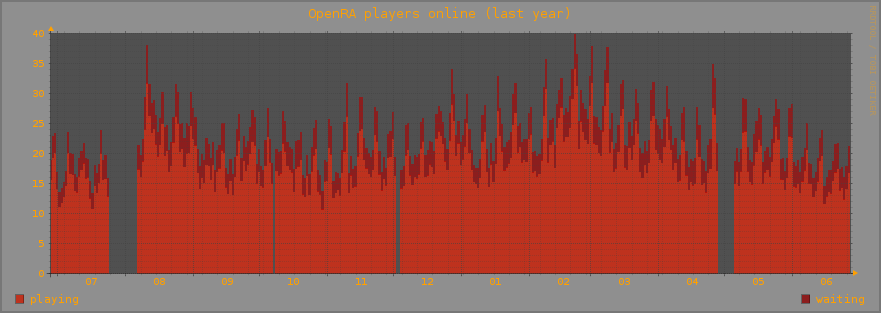
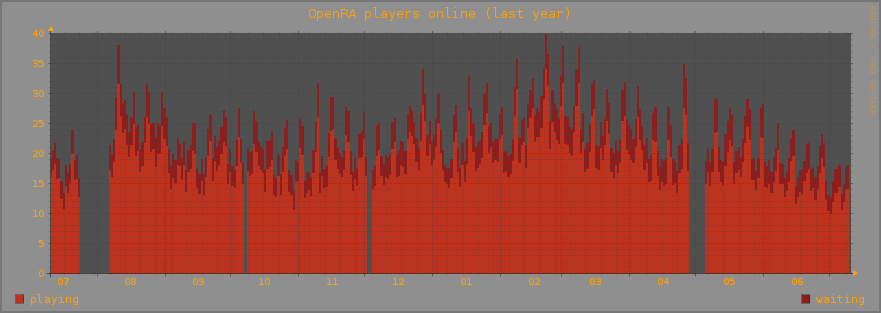
update db

diff --git a/log/redraw.ts b/log/redraw.ts
@@ -1,1 +1,1 @@
-2015-06-27 08:46:06
+2015-07-10 12:01:07
